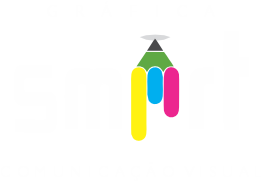
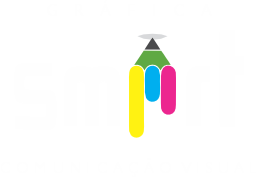
a
a

diff --git a/site.html b/site.html
@@ -79,24 +79,26 @@
 
             </div>
             <!--Social Media Links end-->
+
             <div class="header-content">
+                
                 <div class="header-content-box">
-                    <div class="firstline">
-                        <img src="images/index.png" alt="logo">
-                    </div>
-                        <!-- <div class="firstline"><span class="color">Gráfica </span>Smart</div> -->
+
+                    <img src="images/index.png" alt="logo">
+
+                    <!-- <div class="firstline"><span class="color">Gráfica </span>Smart</div> -->
 
 
-                        <div class="secondline">
-                            Trabalhamos com
-                            <span class="txt-rotate color" data-period="1200" data-rotate='[ " Artes Gráficas.", " Banners, Faixas e Backdrops.", " Papéis de Parede, Envelopamento.", " Cartões de Visita (Físico) (Virtual)." ]'></span>
-                            <span class="slash">|</span>
-                        </div>
-                        <div class="contact">
-                            <a href="Mailto:contato@graficasmart.com"><img src="images/mail.png" alt="email-pic" class="contactpic"></a><!--Your email Id write in place of "#"-->
-                            <a href="Tel:+5532998045795"><img src="images/call.png" alt="phone-pic" class="contactpic"></a><!--Your telephone number Id write in place of "#"-->
-                        </div>
+                    <div class="secondline">
+                        Trabalhamos com
+                        <span class="txt-rotate color" data-period="1200" data-rotate='[ " Artes Gráficas.", " Banners, Faixas e Backdrops.", " Papéis de Parede, Envelopamento.", " Cartões de Visita (Físico) (Virtual)." ]'></span>
+                        <span class="slash">|</span>
                     </div>
+                    <div class="contact">
+                        <a href="Mailto:contato@graficasmart.com"><img src="images/mail.png" alt="email-pic" class="contactpic"></a><!--Your email Id write in place of "#"-->
+                        <a href="Tel:+5532998045795"><img src="images/call.png" alt="phone-pic" class="contactpic"></a><!--Your telephone number Id write in place of "#"-->
+                    </div>
+                </div>
             </div>
 
 

diff --git a/css/index.css b/css/index.css
@@ -236,7 +236,7 @@ body{
     width: 100%;
     float: left;
     display: flex;
-    position: absolute;
+    position: center;
     align-items: center;
     justify-content: center;
     color: whitesmoke;
@@ -261,7 +261,10 @@ body{
     font-family: poppins;
     font-size: 45px;
     align-content: center;
-    image-resolution:600dpi;
+    image-resolution:1080dpi;
+    align-items: center;
+    align-self: center;
+   
     
 }
 .header-content .secondline{
